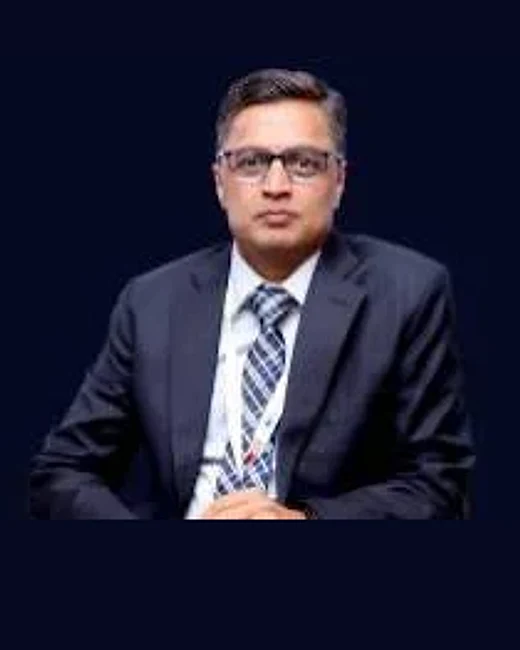
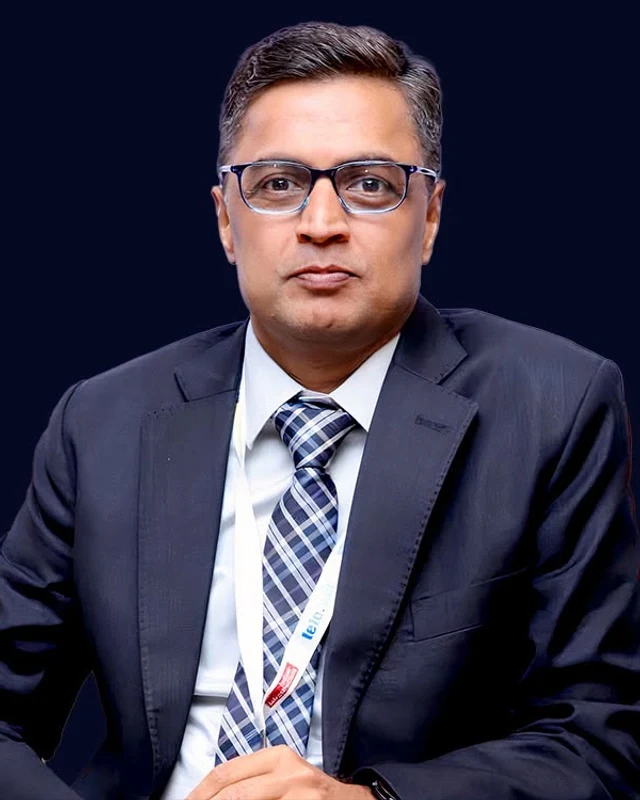
Use the high-resolution portrait for Jyoti Prakash Gadia
Replaces the low-resolution image with the supplied 1200x750 original,
cropped to the 4:5 card frame around his face and encoded as a 640x800
WebP, matching the other leadership photographs. Cache-busting query
bumped to v=3 so the previous file is not served from cache.

Claude-Session: https://claude.ai/code/session_019mtJ8bYAJ6snfj3R5X2XCg

diff --git a/our-leadership-team.html b/our-leadership-team.html
@@ -137,7 +137,7 @@ Former President of ICAI and Central Council Member having shaped India's accoun
               </article>
               <article class="leader-card">
                 <div class="leader-photo-frame">
-                  <img src="assets/images/leadership-jyoti-prakash-gadia.webp?v=2" alt="Jyoti Prakash Gadia" class="leader-photo" style="object-position: center top" />
+                  <img src="assets/images/leadership-jyoti-prakash-gadia.webp?v=3" alt="Jyoti Prakash Gadia" class="leader-photo" style="object-position: center top" />
                 </div>
                 <h2>Jyoti Prakash Gadia</h2>
                 <p class="role">Board Member</p>
